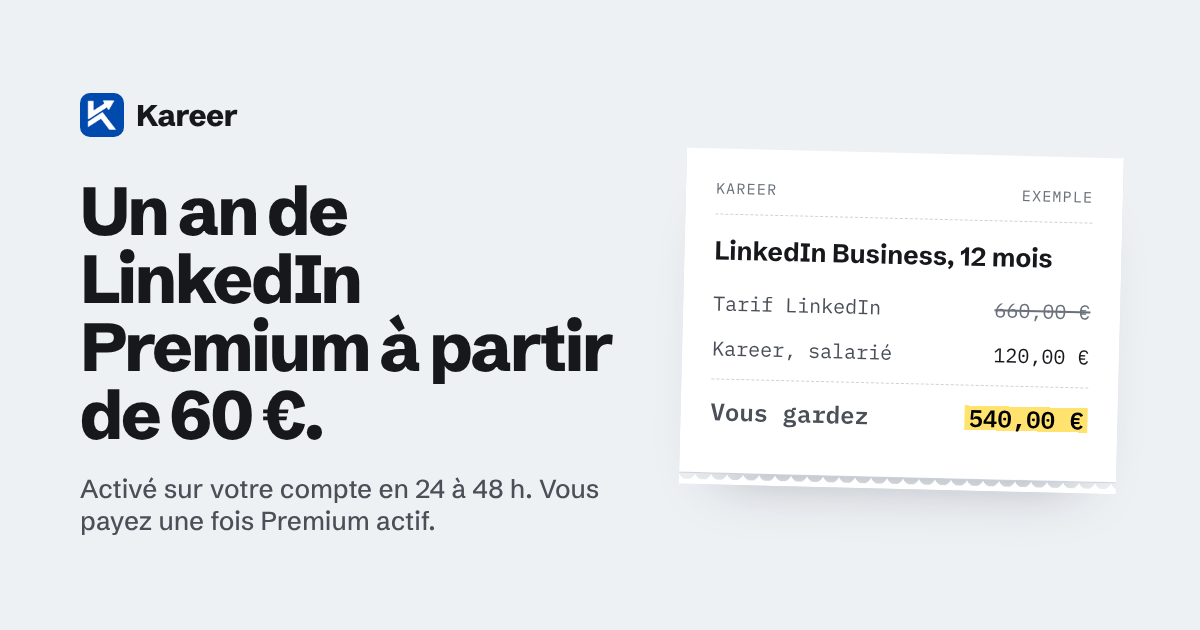
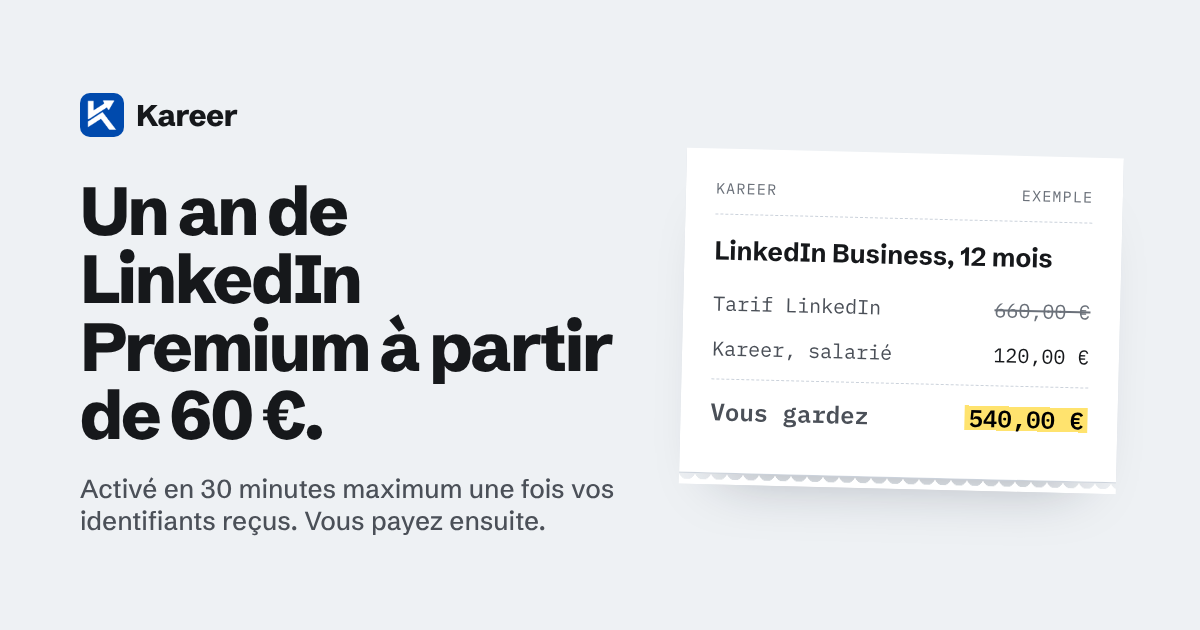
fix: activation takes 5 to 30 minutes once credentials arrive
Replace every "24 à 48 h" activation promise (homepage, checkout,
thank-you and tracking pages, order, status and returning-customer
emails, preview image) with 5 to 30 minutes after the credentials are
received, during opening hours.

Claude-Session: https://claude.ai/code/session_0168hEkcfCiPkJCa8VNuhvmD

Changed region(s): [[0.0617, 0.754, 0.5242, 0.8444]]

diff --git a/i18n.js b/i18n.js
@@ -4,7 +4,7 @@
 const translations = {
     fr: {
         page_title: "Kareer · LinkedIn Premium pour un an, moins cher",
-        meta_description: "LinkedIn Career, Business, Sales Navigator Core et Recruiter Lite pour 12 mois, activés sur votre propre compte en 24 à 48 h. Vous payez sur WhatsApp, une fois Premium actif. Prix spécial étudiants et jeunes diplômés.",
+        meta_description: "LinkedIn Career, Business, Sales Navigator Core et Recruiter Lite pour 12 mois, activés sur votre propre compte en 30 minutes maximum une fois vos identifiants reçus. Vous payez sur WhatsApp, une fois Premium actif. Prix spécial étudiants et jeunes diplômés.",
         skip_to_pricing: "Aller aux tarifs",
         nav_label: "Navigation principale",
         nav_pricing: "Tarifs",
@@ -17,7 +17,7 @@ const translations = {
 
         hero_eyebrow: "LinkedIn Premium · abonnement de 12 mois",
         hero_title: "Un an de LinkedIn Premium à partir de <span class=\"nowrap\">60&nbsp;€</span>.",
-        hero_lede: "Career, Business, Sales Navigator ou Recruiter Lite, activé sur votre propre compte LinkedIn en 24 à 48&nbsp;h. Vous ne payez qu'une fois Premium actif, sur WhatsApp, avec quelqu'un de l'équipe.",
+        hero_lede: "Career, Business, Sales Navigator ou Recruiter Lite, activé sur votre propre compte LinkedIn en 30 minutes maximum une fois vos identifiants reçus. Vous ne payez qu'une fois Premium actif, sur WhatsApp, avec quelqu'un de l'équipe.",
         hero_cta: "Voir les tarifs",
         hero_wa: "Poser une question sur WhatsApp",
         hero_note: "Aucune carte bancaire n'est demandée sur le site. Si l'activation n'aboutit pas, vous ne payez rien.",
@@ -98,7 +98,7 @@ const translations = {
         step3_t: "Vous transmettez vos accès par ce lien.",
         step3_d: "Le lien est personnel et expire. Le mot de passe est chiffré, puis effacé quand l'activation est terminée. Vous pouvez le changer juste après.",
         step4_t: "Premium est activé sur votre compte.",
-        step4_d: "Comptez 24 à 48&nbsp;h. Chaque e-mail de mise à jour contient un lien de suivi.",
+        step4_d: "Comptez entre 5 et 30 minutes après réception de vos identifiants, pendant nos horaires d'ouverture. Chaque e-mail de mise à jour contient un lien de suivi.",
         step5_t: "Vous payez sur WhatsApp.",
         step5_d: "Une fois Premium visible sur votre compte, on vous indique le montant et le moyen de paiement. Si l'activation n'aboutit pas, vous ne payez rien.",
 
@@ -157,7 +157,7 @@ const translations = {
         merci_step1_t: "Commande reçue",
         merci_step1_d: "Votre commande est enregistrée et l'équipe la voit dans WhatsApp.",
         merci_step2_t: "Lien sécurisé et activation",
-        merci_step2_d: "On vous envoie un lien pour transmettre vos accès. Premium est actif sous 24 à 48&nbsp;h.",
+        merci_step2_d: "On vous envoie un lien pour transmettre vos identifiants. Une fois reçus, Premium est actif en 5 à 30 minutes (pendant nos horaires).",
         merci_step3_t: "Paiement",
         merci_step3_d: "Vous réglez sur WhatsApp une fois Premium actif sur votre compte.",
         merci_guarantee: "Si l'activation n'aboutit pas, vous ne payez rien.",
@@ -167,7 +167,7 @@ const translations = {
 
     en: {
         page_title: "Kareer · A year of LinkedIn Premium for less",
-        meta_description: "LinkedIn Career, Business, Sales Navigator Core and Recruiter Lite for 12 months, activated on your own account within 24 to 48 hours. You pay on WhatsApp once Premium is live. Special price for students and recent graduates.",
+        meta_description: "LinkedIn Career, Business, Sales Navigator Core and Recruiter Lite for 12 months, activated on your own account within 30 minutes of receiving your login details. You pay on WhatsApp once Premium is live. Special price for students and recent graduates.",
         skip_to_pricing: "Skip to prices",
         nav_label: "Main navigation",
         nav_pricing: "Prices",
@@ -180,7 +180,7 @@ const translations = {
 
         hero_eyebrow: "LinkedIn Premium · 12-month subscription",
         hero_title: "A year of LinkedIn Premium from <span class=\"nowrap\">€60</span>.",
-        hero_lede: "Career, Business, Sales Navigator or Recruiter Lite, switched on for your own LinkedIn account within 24 to 48 hours. You only pay once Premium is live, on WhatsApp, with someone from the team.",
+        hero_lede: "Career, Business, Sales Navigator or Recruiter Lite, switched on for your own LinkedIn account within 30 minutes of receiving your login details. You only pay once Premium is live, on WhatsApp, with someone from the team.",
         hero_cta: "See prices",
         hero_wa: "Ask a question on WhatsApp",
         hero_note: "The site never asks for a card. If activation doesn't work out, you pay nothing.",
@@ -261,7 +261,7 @@ const translations = {
         step3_t: "You send your login details through that link.",
         step3_d: "The link is personal and expires. Your password is encrypted, then deleted once activation is done. You can change it right after.",
         step4_t: "Premium is switched on for your account.",
-        step4_d: "Allow 24 to 48 hours. Every update email includes a tracking link.",
+        step4_d: "Allow 5 to 30 minutes after we receive your login details, during our opening hours. Every update email includes a tracking link.",
         step5_t: "You pay on WhatsApp.",
         step5_d: "Once you can see Premium on your account, we tell you the amount and how to pay. If activation doesn't work out, you pay nothing.",
 
@@ -320,7 +320,7 @@ const translations = {
         merci_step1_t: "Order received",
         merci_step1_d: "Your order is saved and the team can see it on WhatsApp.",
         merci_step2_t: "Secure link and activation",
-        merci_step2_d: "We send you a link to submit your login details. Premium is live within 24 to 48 hours.",
+        merci_step2_d: "We send you a link to submit your login details. Once we have them, Premium is live in 5 to 30 minutes (during our opening hours).",
         merci_step3_t: "Payment",
         merci_step3_d: "You pay on WhatsApp once Premium is live on your account.",
         merci_guarantee: "If activation doesn't work out, you pay nothing.",
@@ -330,7 +330,7 @@ const translations = {
 
     es: {
         page_title: "Kareer · Un año de LinkedIn Premium por menos",
-        meta_description: "LinkedIn Career, Business, Sales Navigator Core y Recruiter Lite durante 12 meses, activados en tu propia cuenta en 24 a 48 horas. Pagas por WhatsApp cuando Premium ya está activo. Precio especial para estudiantes y recién titulados.",
+        meta_description: "LinkedIn Career, Business, Sales Navigator Core y Recruiter Lite durante 12 meses, activados en tu propia cuenta en 30 minutos como máximo tras recibir tus datos de acceso. Pagas por WhatsApp cuando Premium ya está activo. Precio especial para estudiantes y recién titulados.",
         skip_to_pricing: "Ir a los precios",
         nav_label: "Navegación principal",
         nav_pricing: "Precios",
@@ -343,7 +343,7 @@ const translations = {
 
         hero_eyebrow: "LinkedIn Premium · suscripción de 12 meses",
         hero_title: "Un año de LinkedIn Premium desde <span class=\"nowrap\">60&nbsp;€</span>.",
-        hero_lede: "Career, Business, Sales Navigator o Recruiter Lite, activado en tu propia cuenta de LinkedIn en 24 a 48 horas. Solo pagas cuando Premium ya está activo, por WhatsApp, con alguien del equipo.",
+        hero_lede: "Career, Business, Sales Navigator o Recruiter Lite, activado en tu propia cuenta de LinkedIn en 30 minutos como máximo tras recibir tus datos de acceso. Solo pagas cuando Premium ya está activo, por WhatsApp, con alguien del equipo.",
         hero_cta: "Ver precios",
         hero_wa: "Preguntar por WhatsApp",
         hero_note: "La web nunca te pide una tarjeta. Si la activación no sale bien, no pagas nada.",
@@ -424,7 +424,7 @@ const translations = {
         step3_t: "Envías tus datos de acceso por ese enlace.",
         step3_d: "El enlace es personal y caduca. La contraseña se cifra y se borra al terminar la activación. Puedes cambiarla justo después.",
         step4_t: "Premium se activa en tu cuenta.",
-        step4_d: "Cuenta con 24 a 48 horas. Cada correo de actualización incluye un enlace de seguimiento.",
+        step4_d: "Cuenta entre 5 y 30 minutos desde que recibimos tus datos de acceso, en nuestro horario de atención. Cada correo de actualización incluye un enlace de seguimiento.",
         step5_t: "Pagas por WhatsApp.",
         step5_d: "Cuando ves Premium en tu cuenta, te indicamos el importe y la forma de pago. Si la activación no sale bien, no pagas nada.",
 
@@ -483,7 +483,7 @@ const translations = {
         merci_step1_t: "Pedido recibido",
         merci_step1_d: "Tu pedido está registrado y el equipo lo ve en WhatsApp.",
         merci_step2_t: "Enlace seguro y activación",
-        merci_step2_d: "Te enviamos un enlace para enviar tus datos de acceso. Premium queda activo en 24 a 48 horas.",
+        merci_step2_d: "Te enviamos un enlace para enviar tus datos de acceso. Una vez recibidos, Premium queda activo en 5 a 30 minutos (en nuestro horario).",
         merci_step3_t: "Pago",
         merci_step3_d: "Pagas por WhatsApp cuando Premium ya está activo en tu cuenta.",
         merci_guarantee: "Si la activación no sale bien, no pagas nada.",
@@ -493,7 +493,7 @@ const translations = {
 
     de: {
         page_title: "Kareer · Ein Jahr LinkedIn Premium für weniger Geld",
-        meta_description: "LinkedIn Career, Business, Sales Navigator Core und Recruiter Lite für 12 Monate, aktiviert auf Ihrem eigenen Konto innerhalb von 24 bis 48 Stunden. Sie zahlen per WhatsApp, sobald Premium aktiv ist. Sonderpreis für Studierende und Absolventen.",
+        meta_description: "LinkedIn Career, Business, Sales Navigator Core und Recruiter Lite für 12 Monate, aktiviert auf Ihrem eigenen Konto innerhalb von 30 Minuten nach Erhalt Ihrer Zugangsdaten. Sie zahlen per WhatsApp, sobald Premium aktiv ist. Sonderpreis für Studierende und Absolventen.",
         skip_to_pricing: "Zu den Preisen",
         nav_label: "Hauptnavigation",
         nav_pricing: "Preise",
@@ -506,7 +506,7 @@ const translations = {
 
         hero_eyebrow: "LinkedIn Premium · Abo für 12 Monate",
         hero_title: "Ein Jahr LinkedIn Premium ab <span class=\"nowrap\">60&nbsp;€</span>.",
-        hero_lede: "Career, Business, Sales Navigator oder Recruiter Lite, freigeschaltet auf Ihrem eigenen LinkedIn-Konto innerhalb von 24 bis 48 Stunden. Sie zahlen erst, wenn Premium aktiv ist, per WhatsApp bei jemandem aus dem Team.",
+        hero_lede: "Career, Business, Sales Navigator oder Recruiter Lite, freigeschaltet auf Ihrem eigenen LinkedIn-Konto innerhalb von 30 Minuten nach Erhalt Ihrer Zugangsdaten. Sie zahlen erst, wenn Premium aktiv ist, per WhatsApp bei jemandem aus dem Team.",
         hero_cta: "Preise ansehen",
         hero_wa: "Frage per WhatsApp stellen",
         hero_note: "Die Website fragt nie nach einer Karte. Klappt die Aktivierung nicht, zahlen Sie nichts.",
@@ -587,7 +587,7 @@ const translations = {
         step3_t: "Sie übermitteln Ihre Zugangsdaten über diesen Link.",
         step3_d: "Der Link ist persönlich und läuft ab. Das Passwort wird verschlüsselt und nach der Aktivierung gelöscht. Sie können es direkt danach ändern.",
         step4_t: "Premium wird auf Ihrem Konto freigeschaltet.",
-        step4_d: "Rechnen Sie mit 24 bis 48 Stunden. Jede Status-E-Mail enthält einen Link, über den Sie den Stand verfolgen.",
+        step4_d: "Rechnen Sie mit 5 bis 30 Minuten nach Erhalt Ihrer Zugangsdaten, während unserer Geschäftszeiten. Jede Status-E-Mail enthält einen Link, über den Sie den Stand verfolgen.",
         step5_t: "Sie bezahlen per WhatsApp.",
         step5_d: "Sobald Sie Premium auf Ihrem Konto sehen, nennen wir Ihnen Betrag und Zahlungsweg. Klappt die Aktivierung nicht, zahlen Sie nichts.",
 
@@ -646,7 +646,7 @@ const translations = {
         merci_step1_t: "Bestellung erhalten",
         merci_step1_d: "Ihre Bestellung ist gespeichert und das Team sieht sie in WhatsApp.",
         merci_step2_t: "Sicherer Link und Aktivierung",
-        merci_step2_d: "Wir schicken Ihnen einen Link für Ihre Zugangsdaten. Premium ist innerhalb von 24 bis 48 Stunden aktiv.",
+        merci_step2_d: "Wir schicken Ihnen einen Link für Ihre Zugangsdaten. Sobald wir sie haben, ist Premium in 5 bis 30 Minuten aktiv (während unserer Geschäftszeiten).",
         merci_step3_t: "Zahlung",
         merci_step3_d: "Sie zahlen per WhatsApp, sobald Premium auf Ihrem Konto aktiv ist.",
         merci_guarantee: "Klappt die Aktivierung nicht, zahlen Sie nichts.",

diff --git a/api/update-order.js b/api/update-order.js
@@ -450,25 +450,25 @@ async function sendStatusEmail(order, fromStatus, toStatus) {
 
     const messages = {
       fr: {
-        activating: { subject: 'Votre compte est en cours d\'activation', title: 'Activation en cours !', body: 'Nous avons bien reçu vos accès et votre LinkedIn Premium est en cours d\'activation. Vous recevrez une confirmation dès que ce sera terminé. Le paiement se fait ensuite sur WhatsApp.' },
+        activating: { subject: 'Votre compte est en cours d\'activation', title: 'Activation en cours !', body: 'Nous avons bien reçu vos accès et votre LinkedIn Premium est en cours d\'activation (5 à 30 minutes). Vous recevrez une confirmation dès que ce sera terminé. Le paiement se fait ensuite sur WhatsApp.' },
         done: { subject: 'Votre compte LinkedIn Premium est activé !', title: 'C\'est fait !', body: 'Votre compte LinkedIn Premium a été activé avec succès. Vous pouvez dès maintenant profiter de toutes les fonctionnalités Premium sur LinkedIn. Si ce n\'est pas déjà fait, le règlement se fait sur WhatsApp avec notre équipe.' },
         refunded: { subject: 'Votre remboursement a été effectué', title: 'Remboursement confirmé', body: 'Votre commande a été remboursée. Le montant sera crédité sur votre compte dans 5-10 jours ouvrés.' },
         pending: { subject: 'Commande reçue', title: 'Commande reçue', body: 'Nous avons bien reçu votre commande. Vous allez recevoir un lien sécurisé pour transmettre vos accès LinkedIn. Le paiement se fait une fois Premium actif.' }
       },
       en: {
-        activating: { subject: 'Your account is being activated', title: 'Activation in progress!', body: 'We have received your login details and your LinkedIn Premium is being activated. You will receive a confirmation once it\'s done. Payment comes after, on WhatsApp.' },
+        activating: { subject: 'Your account is being activated', title: 'Activation in progress!', body: 'We have received your login details and your LinkedIn Premium is being activated (5 to 30 minutes). You will receive a confirmation once it\'s done. Payment comes after, on WhatsApp.' },
         done: { subject: 'Your LinkedIn Premium account is activated!', title: 'All done!', body: 'Your LinkedIn Premium account has been successfully activated. You can now enjoy all Premium features on LinkedIn. If you haven\'t paid yet, payment is done on WhatsApp with our team.' },
         refunded: { subject: 'Your refund has been processed', title: 'Refund confirmed', body: 'Your order has been refunded. The amount will be credited to your account within 5-10 business days.' },
         pending: { subject: 'Order received', title: 'Order received', body: 'We have received your order. You will get a secure link to submit your LinkedIn login details. Payment comes once Premium is live.' }
       },
       es: {
-        activating: { subject: 'Tu cuenta está siendo activada', title: '¡Activación en curso!', body: 'Hemos recibido tus datos de acceso y tu LinkedIn Premium está siendo activado. Recibirás una confirmación cuando esté listo. El pago se hace después, por WhatsApp.' },
+        activating: { subject: 'Tu cuenta está siendo activada', title: '¡Activación en curso!', body: 'Hemos recibido tus datos de acceso y tu LinkedIn Premium está siendo activado (de 5 a 30 minutos). Recibirás una confirmación cuando esté listo. El pago se hace después, por WhatsApp.' },
         done: { subject: '¡Tu cuenta LinkedIn Premium está activada!', title: '¡Listo!', body: 'Tu cuenta LinkedIn Premium ha sido activada con éxito. Ya puedes disfrutar de todas las funciones Premium en LinkedIn. Si aún no has pagado, el pago se hace por WhatsApp con nuestro equipo.' },
         refunded: { subject: 'Tu reembolso ha sido procesado', title: 'Reembolso confirmado', body: 'Tu pedido ha sido reembolsado. El monto será acreditado en tu cuenta en 5-10 días hábiles.' },
         pending: { subject: 'Pedido recibido', title: 'Pedido recibido', body: 'Hemos recibido tu pedido. Recibirás un enlace seguro para enviar tus datos de acceso de LinkedIn. El pago se hace cuando Premium esté activo.' }
       },
       de: {
-        activating: { subject: 'Ihr Konto wird aktiviert', title: 'Aktivierung läuft!', body: 'Wir haben Ihre Zugangsdaten erhalten und Ihr LinkedIn Premium wird aktiviert. Sie erhalten eine Bestätigung, sobald es fertig ist. Bezahlt wird danach per WhatsApp.' },
+        activating: { subject: 'Ihr Konto wird aktiviert', title: 'Aktivierung läuft!', body: 'Wir haben Ihre Zugangsdaten erhalten und Ihr LinkedIn Premium wird aktiviert (5 bis 30 Minuten). Sie erhalten eine Bestätigung, sobald es fertig ist. Bezahlt wird danach per WhatsApp.' },
         done: { subject: 'Ihr LinkedIn Premium-Konto ist aktiviert!', title: 'Fertig!', body: 'Ihr LinkedIn Premium-Konto wurde erfolgreich aktiviert. Sie können jetzt alle Premium-Funktionen auf LinkedIn nutzen. Falls noch nicht geschehen, erfolgt die Zahlung per WhatsApp mit unserem Team.' },
         refunded: { subject: 'Ihre Rückerstattung wurde bearbeitet', title: 'Rückerstattung bestätigt', body: 'Ihre Bestellung wurde erstattet. Der Betrag wird innerhalb von 5-10 Werktagen auf Ihrem Konto gutgeschrieben.' },
         pending: { subject: 'Bestellung erhalten', title: 'Bestellung erhalten', body: 'Wir haben Ihre Bestellung erhalten. Sie bekommen einen sicheren Link für Ihre LinkedIn-Zugangsdaten. Bezahlt wird, sobald Premium aktiv ist.' }

diff --git a/index.html b/index.html
@@ -4,7 +4,7 @@
     <meta charset="UTF-8">
     <meta name="viewport" content="width=device-width, initial-scale=1.0">
     <title>Kareer · LinkedIn Premium pour un an, moins cher</title>
-    <meta name="description" content="LinkedIn Career, Business, Sales Navigator Core et Recruiter Lite pour 12 mois, activés sur votre propre compte en 24 à 48 h. Vous payez sur WhatsApp, une fois Premium actif. Prix spécial étudiants et jeunes diplômés.">
+    <meta name="description" content="LinkedIn Career, Business, Sales Navigator Core et Recruiter Lite pour 12 mois, activés sur votre propre compte en 30 minutes maximum une fois vos identifiants reçus. Vous payez sur WhatsApp, une fois Premium actif. Prix spécial étudiants et jeunes diplômés.">
     <link rel="canonical" href="https://kareer.pro/">
     <link rel="icon" href="karrier-logo.png" type="image/png">
     <link rel="apple-touch-icon" href="karrier-logo.png">
@@ -112,7 +112,7 @@
                 <div class="hero-copy">
                     <p class="eyebrow" data-i18n="hero_eyebrow">LinkedIn Premium · abonnement de 12 mois</p>
                     <h1 data-i18n="hero_title">Un an de LinkedIn Premium à partir de <span class="nowrap">60&nbsp;€</span>.</h1>
-                    <p class="lede" data-i18n="hero_lede">Career, Business, Sales Navigator ou Recruiter Lite, activé sur votre propre compte LinkedIn en 24 à 48&nbsp;h. Vous ne payez qu'une fois Premium actif, sur WhatsApp, avec quelqu'un de l'équipe.</p>
+                    <p class="lede" data-i18n="hero_lede">Career, Business, Sales Navigator ou Recruiter Lite, activé sur votre propre compte LinkedIn en 30 minutes maximum une fois vos identifiants reçus. Vous ne payez qu'une fois Premium actif, sur WhatsApp, avec quelqu'un de l'équipe.</p>
                     <div class="hero-actions">
                         <a class="btn btn-primary" href="#tarifs" data-i18n="hero_cta">Voir les tarifs</a>
                         <a class="btn btn-wa" href="https://wa.me/212651064637?text=Bonjour%2C%20j%27ai%20une%20question%20avant%20de%20commander%20sur%20Kareer." target="_blank" rel="noopener" data-wa="question">
@@ -297,7 +297,7 @@
                         <span class="step-n" aria-hidden="true">4</span>
                         <div>
                             <h3 data-i18n="step4_t">Premium est activé sur votre compte.</h3>
-                            <p data-i18n="step4_d">Comptez 24 à 48&nbsp;h. Chaque e-mail de mise à jour contient un lien de suivi.</p>
+                            <p data-i18n="step4_d">Comptez entre 5 et 30 minutes après réception de vos identifiants, pendant nos horaires d'ouverture. Chaque e-mail de mise à jour contient un lien de suivi.</p>
                         </div>
                     </li>
                     <li>

diff --git a/api/automation.js b/api/automation.js
@@ -543,7 +543,7 @@ async function sendRenewalReminders(daysBefore) {
         title: 'Renouvelez votre LinkedIn Premium',
         body: `Votre abonnement LinkedIn Premium (${order.planLabel || order.plan}) arrive bientôt à expiration. Renouvelez maintenant pour continuer à profiter de toutes les fonctionnalités Premium sans interruption.`,
         benefit1: 'Même prix avantageux garanti',
-        benefit2: 'Activation rapide (24-48h)',
+        benefit2: 'Activation en 30 minutes maximum après réception des identifiants',
         benefit3: 'Support WhatsApp dédié',
         cta: 'Renouveler maintenant',
         footer: 'Cet email vous est envoyé car votre abonnement arrive à échéance.'
@@ -552,7 +552,7 @@ async function sendRenewalReminders(daysBefore) {
         title: 'Renueva tu LinkedIn Premium',
         body: `Tu suscripción LinkedIn Premium (${order.planLabel || order.plan}) está por vencer. Renueva ahora para seguir disfrutando de todas las funciones Premium sin interrupción.`,
         benefit1: 'Mismo precio ventajoso garantizado',
-        benefit2: 'Activación rápida (24-48h)',
+        benefit2: 'Activación en 30 minutos como máximo tras recibir tus datos',
         benefit3: 'Soporte WhatsApp dedicado',
         cta: 'Renovar ahora',
         footer: 'Este email se envía porque tu suscripción está por vencer.'
@@ -561,7 +561,7 @@ async function sendRenewalReminders(daysBefore) {
         title: 'Erneuern Sie Ihr LinkedIn Premium',
         body: `Ihr LinkedIn Premium-Abonnement (${order.planLabel || order.plan}) läuft bald ab. Erneuern Sie jetzt, um alle Premium-Funktionen ohne Unterbrechung zu nutzen.`,
         benefit1: 'Gleicher günstiger Preis garantiert',
-        benefit2: 'Schnelle Aktivierung (24-48h)',
+        benefit2: 'Aktivierung in höchstens 30 Minuten nach Erhalt der Zugangsdaten',
         benefit3: 'Persönlicher WhatsApp-Support',
         cta: 'Jetzt erneuern',
         footer: 'Diese E-Mail wird gesendet, weil Ihr Abonnement bald abläuft.'
@@ -570,7 +570,7 @@ async function sendRenewalReminders(daysBefore) {
         title: 'Renew your LinkedIn Premium',
         body: `Your LinkedIn Premium subscription (${order.planLabel || order.plan}) is about to expire. Renew now to continue enjoying all Premium features without interruption.`,
         benefit1: 'Same great price guaranteed',
-        benefit2: 'Fast activation (24-48h)',
+        benefit2: 'Activation within 30 minutes of receiving your credentials',
         benefit3: 'Dedicated WhatsApp support',
         cta: 'Renew now',
         footer: 'This email is sent because your subscription is about to expire.'

diff --git a/checkout.html b/checkout.html
@@ -239,7 +239,7 @@
             </div>
             <div class="trust-item">
                 <svg viewBox="0 0 24 24" fill="none" stroke="currentColor" stroke-width="2"><path d="M12 22c5.523 0 10-4.477 10-10S17.523 2 12 2 2 6.477 2 12s4.477 10 10 10z"/><path d="M9 12l2 2 4-4"/></svg>
-                Activation 24-48h
+                Actif en 30 min max après vos identifiants
             </div>
         </div>
     </div>
@@ -321,7 +321,7 @@ const checkoutTranslations = {
     clickHere: 'cliquez ici',
     sslEncrypted: 'Aucune carte demandée',
     refund30d: 'Rien à payer si l\'activation échoue',
-    activation24h: 'Actif sous 24 à 48 h',
+    activation24h: 'Actif en 30 min max après vos identifiants',
     footerTerms: 'En commandant, vous acceptez les',
     footerPrivacy: 'politique de confidentialité',
     footerCopyright: 'Kareer est un service indépendant, sans lien avec LinkedIn Corporation.'
@@ -354,7 +354,7 @@ const checkoutTranslations = {
     clickHere: 'click here',
     sslEncrypted: 'No card required',
     refund30d: 'Nothing to pay if activation fails',
-    activation24h: 'Live within 24 to 48 hours',
+    activation24h: 'Live within 30 min of your login details',
     footerTerms: 'By ordering, you accept the',
     footerPrivacy: 'privacy policy',
     footerCopyright: 'Kareer is an independent service with no connection to LinkedIn Corporation.'
@@ -387,7 +387,7 @@ const checkoutTranslations = {
     clickHere: 'haz clic aquí',
     sslEncrypted: 'Sin tarjeta',
     refund30d: 'Nada que pagar si la activación falla',
-    activation24h: 'Activo en 24 a 48 horas',
+    activation24h: 'Activo en 30 min máx. tras tus datos',
     footerTerms: 'Al ordenar, aceptas los',
     footerPrivacy: 'política de privacidad',
     footerCopyright: 'Kareer es un servicio independiente, sin relación con LinkedIn Corporation.'
@@ -420,7 +420,7 @@ const checkoutTranslations = {
     clickHere: 'hier klicken',
     sslEncrypted: 'Keine Karte nötig',
     refund30d: 'Nichts zu zahlen, wenn die Aktivierung scheitert',
-    activation24h: 'Aktiv in 24 bis 48 Stunden',
+    activation24h: 'Aktiv in max. 30 Min. nach Ihren Zugangsdaten',
     footerTerms: 'Mit der Bestellung akzeptieren Sie die',
     footerPrivacy: 'Datenschutzrichtlinie',
     footerCopyright: 'Kareer ist ein unabhängiger Dienst ohne Verbindung zur LinkedIn Corporation.'

diff --git a/api/create-order.js b/api/create-order.js
@@ -244,7 +244,7 @@ async function sendWelcomeEmail(order) {
         'Vous transmettez vos identifiants, puis nous lançons l’activation.',
         'Une fois Premium actif, vous réglez sur WhatsApp.'
       ],
-      delay: 'Délai estimé : 24 à 48 heures après réception des identifiants.',
+      delay: 'Délai : 5 à 30 minutes après réception de vos identifiants, pendant nos horaires.',
       amount: 'Montant',
       order: 'Commande',
       contact: 'Écrire sur WhatsApp',
@@ -260,7 +260,7 @@ async function sendWelcomeEmail(order) {
         'Envías tus credenciales y empezamos la activación.',
         'Cuando Premium esté activo, pagas por WhatsApp.'
       ],
-      delay: 'Tiempo estimado: 24 a 48 horas después de recibir tus credenciales.',
+      delay: 'Plazo: de 5 a 30 minutos después de recibir tus credenciales, en nuestro horario.',
       amount: 'Monto',
       order: 'Pedido',
       contact: 'Escribir por WhatsApp',
@@ -276,7 +276,7 @@ async function sendWelcomeEmail(order) {
         'Sie senden Ihre Zugangsdaten, dann starten wir die Aktivierung.',
         'Sobald Premium aktiv ist, zahlen Sie per WhatsApp.'
       ],
-      delay: 'Geschätzte Zeit: 24 bis 48 Stunden nach Erhalt der Zugangsdaten.',
+      delay: 'Dauer: 5 bis 30 Minuten nach Erhalt Ihrer Zugangsdaten, während unserer Geschäftszeiten.',
       amount: 'Betrag',
       order: 'Bestellung',
       contact: 'Per WhatsApp schreiben',
@@ -292,7 +292,7 @@ async function sendWelcomeEmail(order) {
         'You submit your credentials, then we start activation.',
         'Once Premium is live, you pay on WhatsApp.'
       ],
-      delay: 'Estimated time: 24 to 48 hours after receiving your credentials.',
+      delay: 'Timing: 5 to 30 minutes after we receive your credentials, during our opening hours.',
       amount: 'Amount',
       order: 'Order',
       contact: 'Message us on WhatsApp',

diff --git a/suivi.html b/suivi.html
@@ -130,7 +130,7 @@
             } else if (order.status === 'awaiting_credentials') {
                 etaText = 'En attente de vos accès';
             } else if (order.status === 'activating') {
-                etaText = 'Activation en cours, sous 24 à 48 h';
+                etaText = 'Activation en cours, 30 minutes maximum';
             } else if (order.status === 'done') {
                 etaText = 'Premium est actif';
             } else if (order.status === 'refunded') {
@@ -153,7 +153,7 @@
                 steps = [
                     { key: 'pending_payment', icon: '1', title: 'Commande reçue', desc: 'Nous préparons le lien sécurisé pour vos accès.' },
                     { key: 'awaiting_credentials', icon: '2', title: 'Accès demandés', desc: 'Un lien sécurisé vous permet de transmettre votre mot de passe LinkedIn.' },
-                    { key: 'activating', icon: '3', title: 'Activation en cours', desc: 'Premium est en cours d\'activation sur votre compte LinkedIn.' },
+                    { key: 'activating', icon: '3', title: 'Activation en cours', desc: 'Premium est en cours d\'activation sur votre compte LinkedIn, en 5 à 30 minutes.' },
                     { key: 'done', icon: '4', title: 'Actif', desc: 'Votre LinkedIn Premium est opérationnel. Le règlement se fait sur WhatsApp, si ce n\'est pas déjà fait.' }
                 ];
             }

diff --git a/merci.html b/merci.html
@@ -73,7 +73,7 @@
                 <span class="step-n" aria-hidden="true">2</span>
                 <div>
                     <h2 class="h3" data-i18n="merci_step2_t">Lien sécurisé et activation</h2>
-                    <p data-i18n="merci_step2_d">On vous envoie un lien pour transmettre vos accès. Premium est actif sous 24 à 48&nbsp;h.</p>
+                    <p data-i18n="merci_step2_d">On vous envoie un lien pour transmettre vos identifiants. Une fois reçus, Premium est actif en 5 à 30 minutes (pendant nos horaires).</p>
                 </div>
             </li>
             <li>

diff --git a/DESIGN.md b/DESIGN.md
@@ -73,7 +73,7 @@ Spacing runs on a 4px base. Sections are separated by a 1px `--rule` line and
 
 These apply to every language.
 
-- Say what happens, with numbers. "Actif sous 24 à 48 h" beats "activation
+- Say what happens, with numbers. "Actif en 30 minutes maximum" beats "activation
   ultra-rapide".
 - No em dashes. Use a comma, a colon, a period or parentheses.
 - Do not default to lists of three. Use the number of items the content has.
